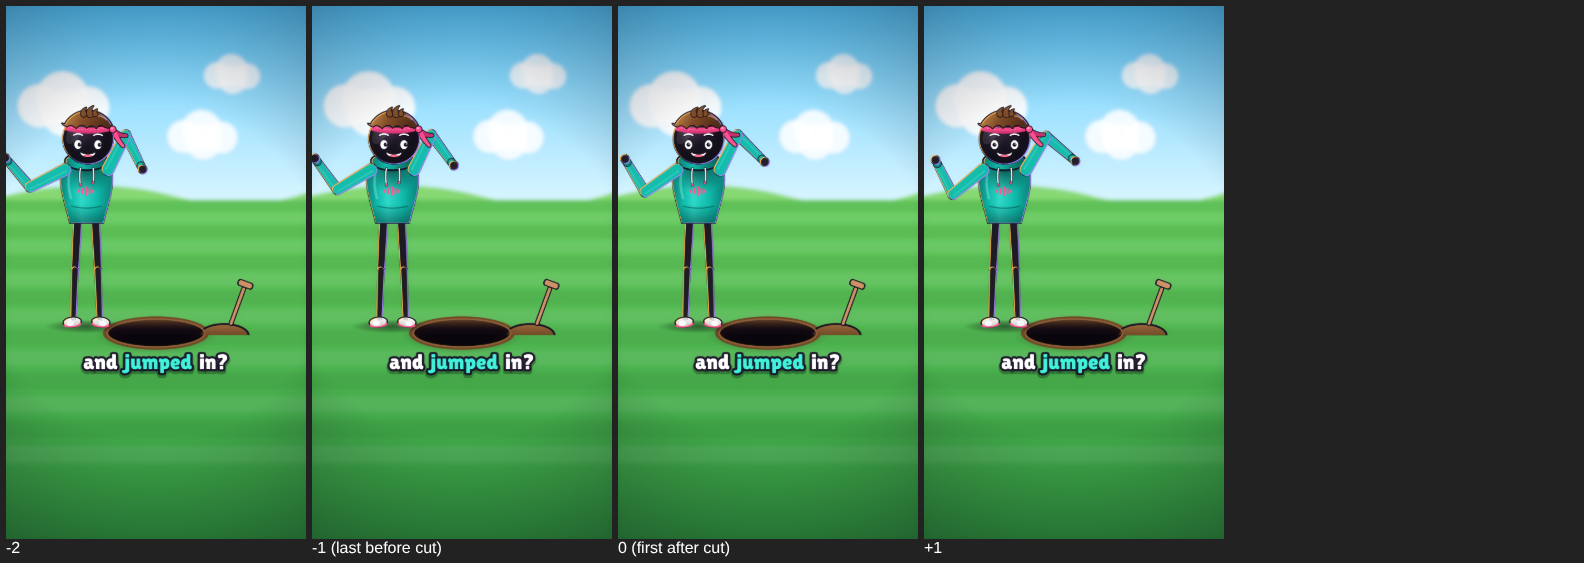
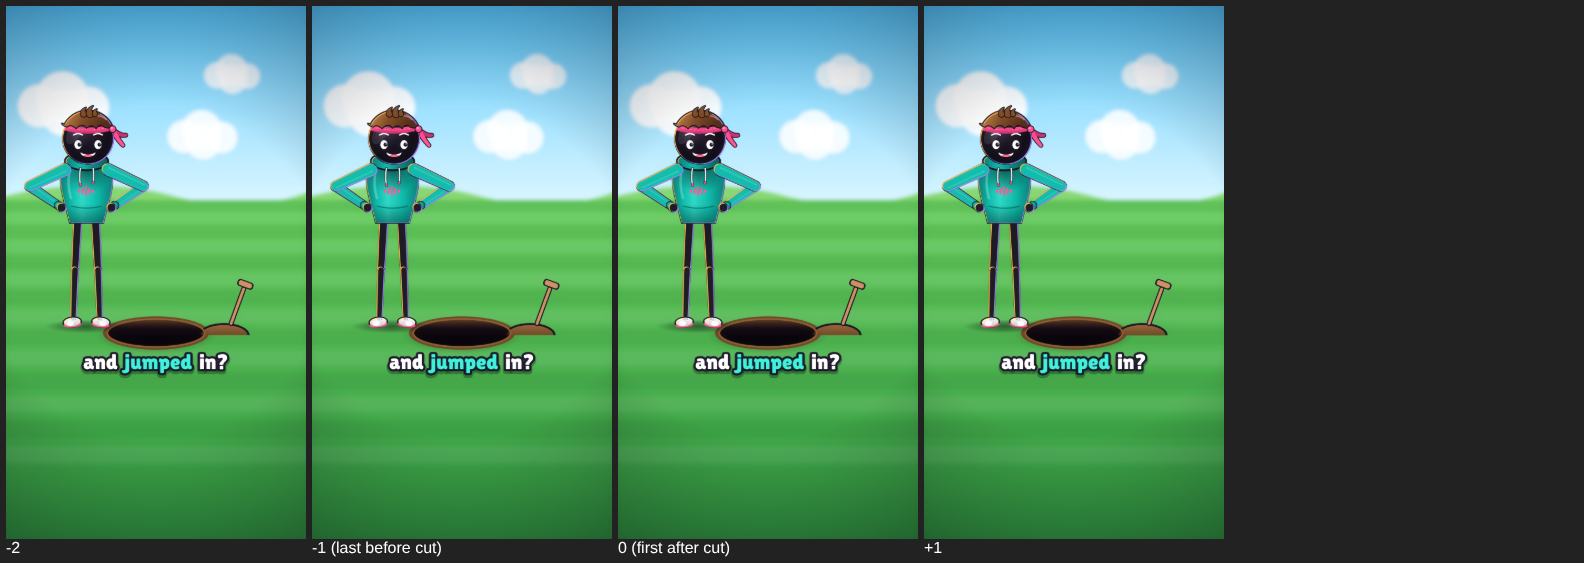
Calm, direct-posed arm choreography and a busy-arms test
- Everyday arm poses (hips, point, ta-da) are posed directly: one clean arc per change, no solver re-configuring
- One gesture per narration beat, held between beats
- New FAIL: more than 420 deg of arm rotation in any 2 s (the owner-rejected version measured 457)
- Earth episode v4 evidence

Claude-Session: https://claude.ai/code/session_01CcPTQgZkcoR6w4hqDBaxUU

diff --git a/template/src/scenes.ts b/template/src/scenes.ts
@@ -23,8 +23,13 @@ const S = (id: string) => TIMELINE.scenes.find((s) => s.id === id)!;
 const bump = (t: number, t0: number, d: number) => (t < t0 || t > t0 + d ? 0 : Math.sin(((t - t0) / d) * Math.PI));
 const STAND = {aLa: -12, aLb: -8, aRa: 12, aRb: 8, lLa: -3, lLb: -2, lRa: 3, lRb: 2};
 const NEUTRAL = {es: 0, eye: 1, ew: 1, pr: 8, ex: 0, ey: 0, hx: 0, hy: 0, hr: 0, brow: 0, tilt: 0, open: 0, teeth: 0, tear: 0, sweat: 0, blush: 0, bags: 0, shades: 0, frost: 0, iLw: 0, iRw: 0, rot: 0, droop: 0, s: 0.9};
-const HIPS = {iLw: 1, iRw: 1, iLx: -104, iLy: -48, iRx: 104, iRy: -48};
-const WIDE = {iLw: 1, iRw: 1, iLx: -175, iLy: -215, iRx: 175, iRy: -215};
+// Arm poses are posed DIRECTLY (FK), so every change is one clean arc between two poses, never a solver re-configuring the arm.
+const HIPS = {iLw: 0, iRw: 0, aLa: -65, aLb: 56, aRa: 65, aRb: -56};                 // hands on hips, elbows out
+const WIDE = {iLw: 0, iRw: 0, aLa: -100, aLb: -162, aRa: 100, aRb: 162};             // "ta-da": arms up, elbows down (same bend as the falling pose)
+const L_HIP = {iLw: 0, aLa: -65, aLb: 56}, R_HIP = {iRw: 0, aRa: 65, aRb: -56};
+const R_POINT_HOLE = {iRw: 0, aRa: 22, aRb: 12};                                     // right arm points down at the hole (from the standing spot)
+const R_POINT_SIGN = {iRw: 0, aRa: 40, aRb: 30};                                     // right arm points at the New Zealand sign
+const ARMS = ['aLa', 'aLb', 'aRa', 'aRb'] as const;
 const FALL = {iLw: 0, iRw: 0, aLa: -74, aLb: -150, aRa: 74, aRb: 150, lLa: -22, lLb: 18, lRa: 14, lRb: -26};
 // ONE continuous camera for the whole video (never resets at a cut) with a gentle breathing push that is
 // periodic over the full duration, so the last frame flows straight back into the first (seamless loop).
@@ -58,8 +63,10 @@ const scrollAt = (t: number) => { const f = clamp(t * 60, 0, SCROLL.length - 1.0
 const hook: SceneDef = (() => {
   const keys: Keys<PP> = [
     [0, {x: 290, y: 770, ...STAND, ...NEUTRAL, ...HIPS, smile: 0.8, ex: 6, hx: 6}, 'step'],
-    [1.4, {...HIPS, brow: 0.4}], [2.4, {iRx: 160, iRy: -60, hr: 0.12, ex: 7, ey: 4, brow: 0.7, smile: 0.3}],
-    [K.three - 2.2, hold('iRx', 'iRy', 'hr', 'ex', 'ey', 'brow', 'smile')], [K.three - 1.7, {...WIDE, hr: 0, ey: 0, brow: 0.8, open: 0.3, smile: 0.9}],
+    [0.9, {...HIPS, brow: 0.4}],
+    [1.35, {...R_POINT_HOLE, hr: 0.1, ex: 7, ey: 4, brow: 0.7, smile: 0.5}],          // "...a hole" -> points at it
+    [2.9, hold(...ARMS)], [3.35, {...R_HIP, hr: 0, ey: 0, ex: 6}],                    // back on the hip
+    [3.9, {brow: 0.9, open: 0.3, smile: 0.9}],                                         // "...and jumped in?"
   ];
   return {
     id: 'hook', rig: new Rig(DEF, keys), cam: GCAM,
@@ -88,7 +95,7 @@ const countdown: SceneDef = (() => {
   // crouch arms bend the SAME way as the falling pose, so the arm swing never passes through itself
   const crouch = {iLw: 0, iRw: 0, aLa: -34, aLb: -62, aRa: 34, aRb: 62, lLa: -30, lLb: 30, lRa: 30, lRb: -30, y: 816, x: 300, s: 0.9, brow: 0.6, smile: 0.4};   // x/s pinned: no sliding or shrinking while he waits
   const keys: Keys<PP> = [
-    [t0, {x: 290, y: 770, ...STAND, ...NEUTRAL, ...WIDE, smile: 0.9, brow: 0.8, open: 0.3}, 'step'],
+    [t0, {x: 290, y: 770, ...STAND, ...NEUTRAL, ...HIPS, smile: 0.9, brow: 0.9, open: 0.3, ex: 6, hx: 6}, 'step'],
     [t0 + 0.4, {brow: 0.6, open: 0}],
     [K.three - 0.3, {x: 300, s: 0.9, ...HIPS, smile: 0.8}], [K.one, hold('x', 'iLw', 'iRw', 'iLx', 'iLy', 'iRx', 'iRy', 'aLa', 'aLb', 'aRa', 'aRb', 'lLa', 'lLb', 'lRa', 'lRb', 'y')],
     [K.one + 0.5, crouch], [J - 0.02, crouch, 'lin'],
@@ -188,9 +195,11 @@ const pop: SceneDef = (() => {
   const keys: Keys<PP> = [
     [t0, {...FALLER, open: 0.6, ew: 1.15, brow: 0.8, smile: 0.6}, 'step'],
     [t0 + 0.45, {y: standY - 170, es: 1, open: 1, smile: 1, brow: 0.9}, 'out'],
-    [t0 + 1.15, {y: standY - 150}], [t0 + 1.75, {y: standY, ...STAND, ...WIDE, x: 520, es: 0, open: 0.3, smile: 1}, 'in'],
-    [K.nz - 0.2, {iLw: 1, iRw: 1, iLx: -104, iLy: -48, iRx: 330, iRy: 60, ex: 7, ey: 4, hr: 0.1, smile: 0.9, open: 0}],   // point straight at the sign (down-right, arm extended)
-    [FB - 0.35, {iLw: 0, iRw: 0, aLa: -22, aLb: -34, aRa: 22, aRb: 34, ex: 0, ey: 0, hr: 0, brow: 0.7, smile: 0.7}],   // arms drop to his sides (same bend as the hop's falling pose)
+    [t0 + 1.15, {y: standY - 150}], [t0 + 1.75, {y: standY, x: 520, es: 0, open: 0.3, smile: 1}, 'in'],
+    [t0 + 1.75, {aLa: -22, aLb: -34, aRa: 22, aRb: 34}],                                 // arms settle at his sides as he lands
+    [K.uk - 0.45, hold(...ARMS)], [K.uk, {...L_HIP}],                                    // "From the UK," left hand to hip
+    [K.nz - 0.45, hold(...ARMS)], [K.nz, {...R_POINT_SIGN, ex: 7, ey: 4, hr: 0.1, smile: 0.9, open: 0}],   // "...New Zealand" -> points at the sign
+    [FB - 0.75, hold(...ARMS, 'ex', 'ey', 'hr')], [FB - 0.35, {aLa: -22, aLb: -34, aRa: 22, aRb: 34, ex: 0, ey: 0, hr: 0, brow: 0.7, smile: 0.7}],   // arms down, ready to hop
     [FB + 0.05, {y: standY + 30, lLa: -25, lLb: 25, lRa: 25, lRb: -25}],
     [FB + 0.3, {y: standY - 90, x: 540, ...FALL, open: 1, es: 1, smile: 1, brow: 0.9}, 'out'],
     [T1, {y: 1070, x: FALLER.x, s: FALLER.s}, 'lin'],                       // straight down INTO the islet hole (waist-deep at the cut)
@@ -265,9 +274,9 @@ const outro: SceneDef = (() => {
     [t0 + 0.32, {y: 690, x: 420, s: 0.84, smile: 0.5, eye: 1, brow: 0.3, tilt: 0, lLa: -18, lLb: 26, lRa: 16, lRb: -24}, 'out'],
     [t0 + 0.75, {x: 290, y: 770, s: 0.9}, 'in'],
     [t0 + 0.8, {...STAND}],                                 // arms settle on their own smooth curve (not the landing's fast ease)
-    [t0 + 1.4, {...START, smile: 0.9, brow: 0.4}],
-    [Math.max(K.your - 0.1, t0 + 1.9), {iRx: 160, iRy: -60, hr: 0.12, ex: 7, ey: 4, brow: 0.7, smile: 0.6}],
-    [K.shovel - 0.3, {...HIPS, hr: 0, ey: 0, ex: 6, brow: 0.5, smile: 0.7}],
+    [t0 + 1.4, {...L_HIP, aRa: 22, aRb: 34, smile: 0.9, brow: 0.4}],                    // left hand to hip; right arm stays relaxed until it points
+    [Math.max(K.your - 0.4, t0 + 1.6), hold(...ARMS)], [Math.max(K.your + 0.05, t0 + 2.05), {...R_POINT_HOLE, hr: 0.1, ex: 7, ey: 4, brow: 0.7, smile: 0.6}],   // "YOUR tunnel" -> the hole
+    [K.shovel - 0.7, hold(...ARMS)], [K.shovel - 0.25, {...R_HIP, hr: 0, ey: 0, ex: 6, brow: 0.5, smile: 0.7}],
     [Math.min(D - 0.6, K.ask + 0.2), START],
     [D, START],
   ];

diff --git a/template/qa/harness.ts b/template/qa/harness.ts
@@ -17,6 +17,7 @@ type Issue = {check: string; severity: 'FAIL' | 'WARN'; t: number; frame: number
 
 const rec: TextRec[] = [];
 let seamInfo: any = null;
+const armMax: Record<string, {deg: number; t: number}> = {};
 let layer = 'scene';
 function patchText() {
   const P = CanvasRenderingContext2D.prototype as any;
@@ -109,6 +110,18 @@ export async function runQA(opts: {sub?: number; textFrom?: number; textTo?: num
           break;
         }
       }
+    }
+  }
+  // busy arms: total arm rotation in any 2 s window. One clean gesture there and back is ~250 deg. The owner rejected a version at 457 deg
+  // (arms swinging out, pointing, dangling just to reach the hips), so the limit sits below that.
+  if (doMotion) for (const [side, u, f] of [['left', 'uL', 'fL'], ['right', 'uR', 'fR']] as const) {
+    const win = Math.round(2 / dts), acc: number[] = [0];
+    for (let i = 1; i < sk.length; i++) { const a = sk[i - 1], b = sk[i]; acc.push(acc[i - 1] + (a.scene === b.scene && !nearCut(b.t) ? Math.abs(wrap(b.segs[u] - a.segs[u])) + Math.abs(wrap(b.segs[f] - a.segs[f])) : 0)); }
+    for (let i = win; i < sk.length; i += Math.round(0.25 / dts)) {
+      const tot = acc[i] - acc[i - win], t = sk[i].t;
+      if (!armMax[side] || tot > armMax[side].deg) armMax[side] = {deg: Math.round(tot), t: +t.toFixed(2)};
+      if (tot > 420) flagOnce('busy' + side, t, () => add('arm-busy', 'FAIL', t, `${side} arm moves ${Math.round(tot)}° in 2 s — too busy / flailing (limit 420)`));
+      else if (tot > 340) flagOnce('busyw' + side, t, () => add('arm-busy', 'WARN', t, `${side} arm moves ${Math.round(tot)}° in 2 s — check it reads as one clear gesture`));
     }
   }
   // feet gliding across the ground while standing (or slowly shrinking/growing while standing) = authoring bug
@@ -238,7 +251,7 @@ export async function runQA(opts: {sub?: number; textFrom?: number; textTo?: num
   }
 
   const fails = issues.filter((i) => i.severity === 'FAIL').length;
-  return {seam: seamInfo, spans: byText, frames: N, duration: TIMELINE.duration, fails, warns: issues.length - fails, issues: issues.sort((a, b) => a.t - b.t), cuts: cutRep};
+  return {armMax, seam: seamInfo, spans: byText, frames: N, duration: TIMELINE.duration, fails, warns: issues.length - fails, issues: issues.sort((a, b) => a.t - b.t), cuts: cutRep};
 }
 (window as any).runQA = runQA;
 

diff --git a/WHAT_IF_DAILY_RECIPE.md b/WHAT_IF_DAILY_RECIPE.md
@@ -108,10 +108,14 @@ The channel is "What If" Daily on TikTok. Every day it posts one roughly 60–65
   - **Script:** the last line leads into the hook question, e.g. "…but before you grab that shovel… ask yourself…" → "What if you dug a hole…?". Put the comment CTA in the second-to-last line ("So comment where YOUR… would come out."). Don't use "follow for more" at the end; that's in the post caption.
   - **Visuals:** the final scene ends in EXACTLY the hook's frame-0 state: same background, position, pose, face and props. Hold it for the last ~0.5 s. Idle motion uses `loopw()`, which has a whole number of cycles over the video, and the camera breathing is periodic over the full duration.
   - **Timing:** `build_timeline.py` sets the duration to a whole number of beats, leaving a 0.4–0.9 s pause from the last word back to the first. The last caption clears 0.12 s before the end.
-- **Arms must look natural.** The rig now handles elbows anatomically: it always heads for the natural elbow (out to the side), and when it has to swap, the arm extends and re-bends over about 1.1 s.
-  - Never author poses that make an elbow rotate through itself. The FK and IK bends on either side of a transition should have the same sign (see the template's crouch, which matches FALL).
-  - IK hand targets must be far enough away that the arm reads (pointing: about 300 px out).
-  - The rig picks IK elbows from a time-continuous table and blends joint *positions*, so do not bypass `ppAt()`/`resolvePP()`.
+- **Arms must look natural and CALM (owner requirement).**
+  - **Pose arms directly (FK angles) for everyday gestures.** The template has ready-made poses: `HIPS` (hands on hips), `WIDE`, `L_HIP`, `R_HIP`, `R_POINT_*`. Each change is then one clean arc. Only use IK hand targets when a hand must touch a moving object, and never for hands-on-hips.
+  - **ONE purposeful gesture per narration beat**, timed to the word (e.g. point at the hole on "hole"), then hold. Never chain pose → pose → pose just to arrive somewhere. The owner rejected a version whose arms swung out, pointed and dangled just to reach the hips.
+  - **Hold poses between gestures** with `hold(...ARMS)` keys, so arms don't drift slowly for seconds between keys.
+  - **Give big arm changes enough time.** Moving from raised arms to the hip takes at least 0.7 s, or goes through a relaxed pose first.
+  - **Keep the elbow bend direction the same** across a move where possible (e.g. the crouch bends like the falling pose).
+  - **Gestures aim at their subject.** Work out the angle from the shoulder to the object.
+  - **Elbows stay out to the side**, never into the chest.
 - Quick stills while working: `node qa/moments.mjs 12.3 20 31.5` writes `qa/sheets/moments.png`.
 
 ## 4. Music + SFX: Python only, SOFT
@@ -150,6 +154,7 @@ The owner saw unpolished results before: hands rotating unnaturally, unclean tra
    - One-frame flashes or glitches.
    - The pixel step at the loop seam.
    - Anatomy: an elbow pointing INTO the chest (reads as a snapped arm), held or moving.
+   - BUSY ARMS: more than 420° of arm rotation in any 2 s window FAILS (one clean gesture there and back is about 250°). The rejected version measured 457°.
    - Feet gliding across the ground while standing, and slowly shrinking or growing while standing (authoring slips).
    WARN items must each be looked at and judged deliberate (e.g. arms flinging on "JUMP!").
    The tests were proven against real bugs: the owner's screenshots of a folded arm and a jump that missed the hole both FAIL them. Never edit a test to pass. Fix the animation.
